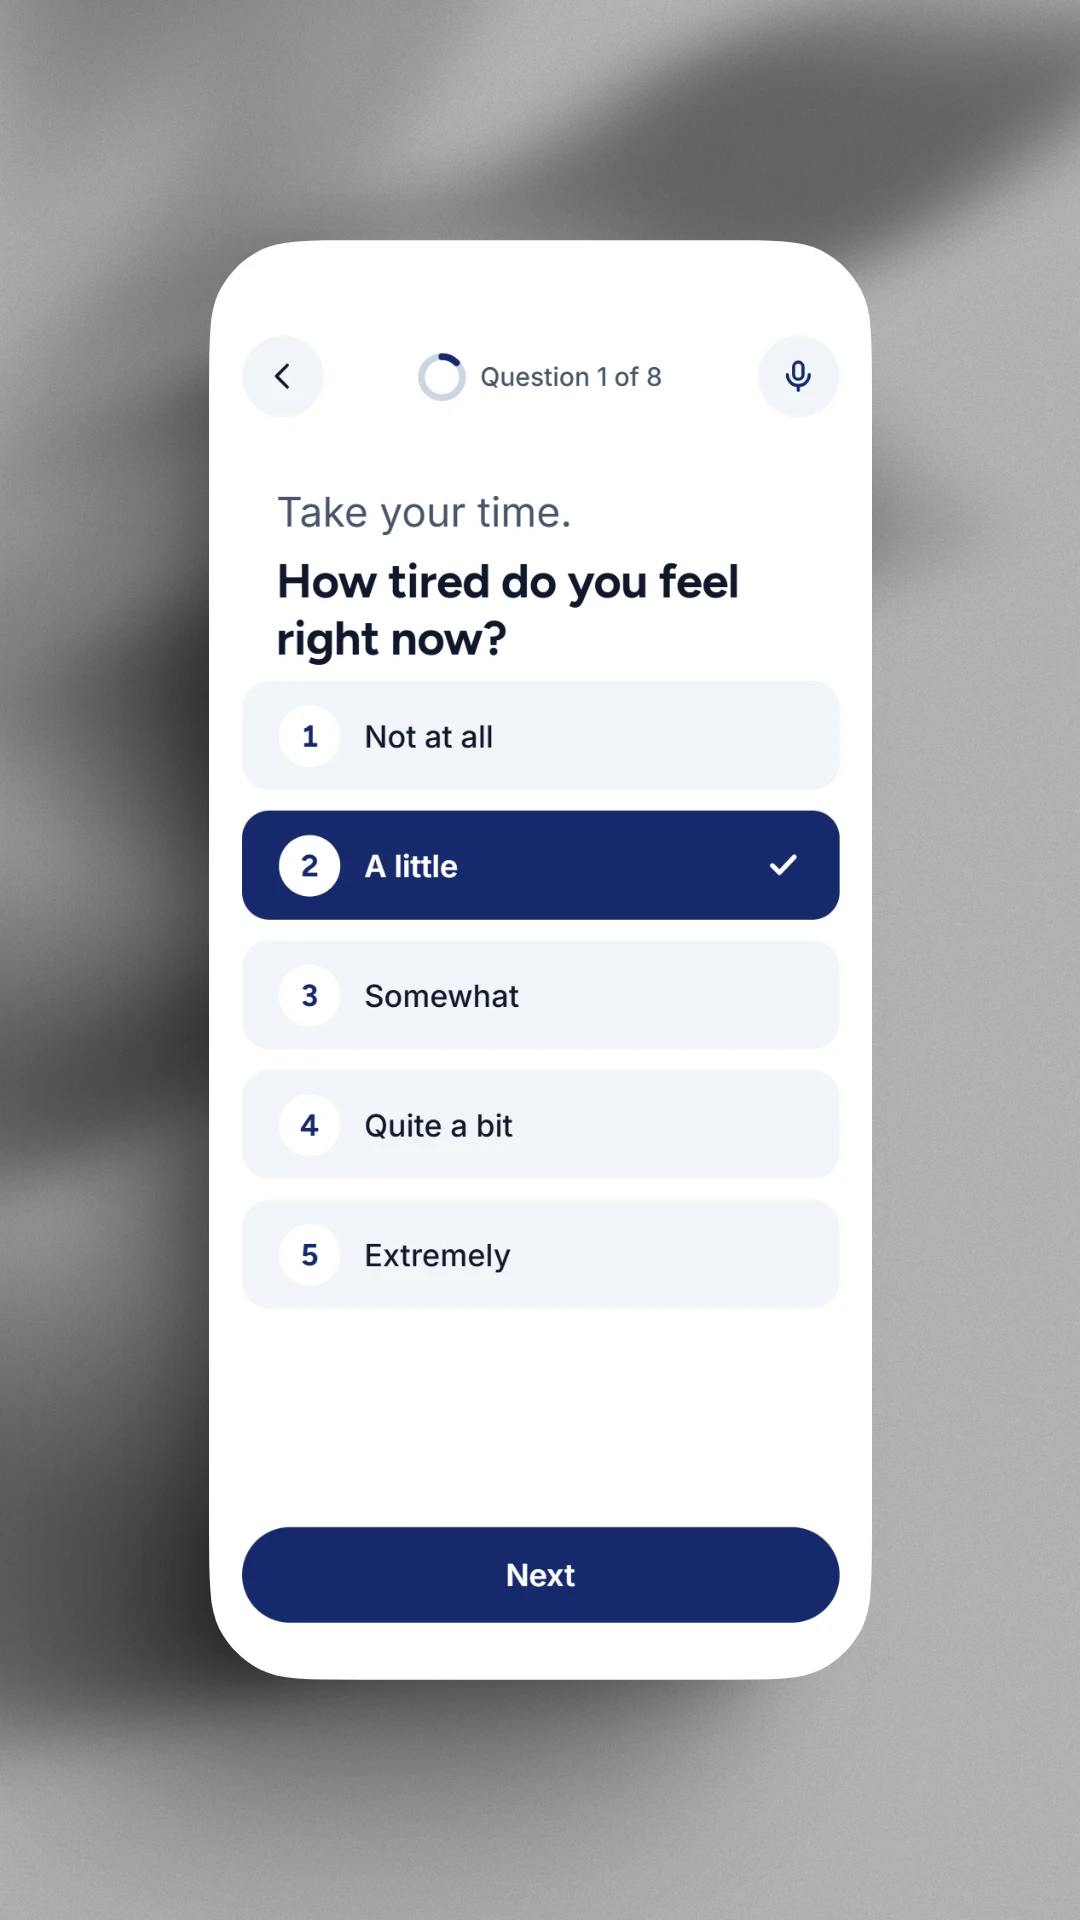
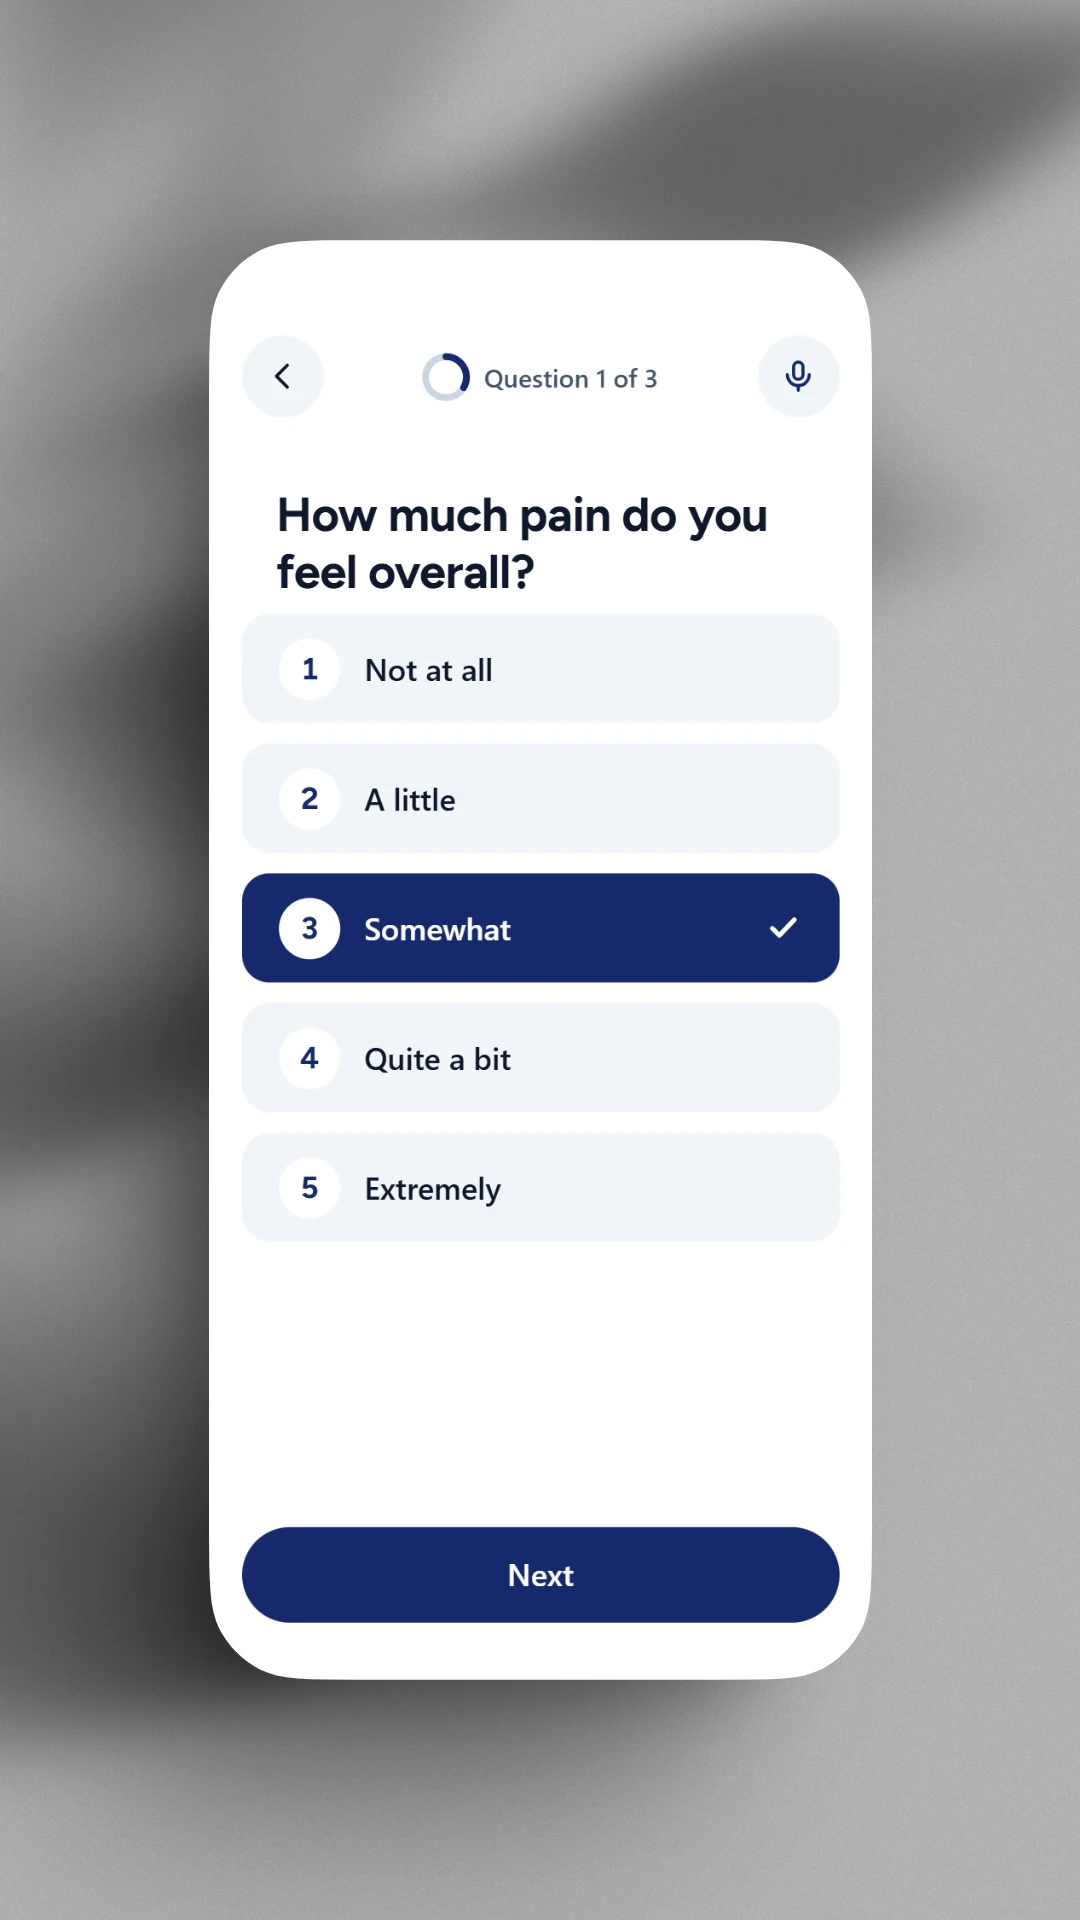
Replace the ePRO single-select image
Claude-Session: https://claude.ai/code/session_0196Ae2T5FvwkwyFddqCoPdG

Changed region(s): [[0.2139, 0.25, 0.7944, 0.6562], [0.3667, 0.1875, 0.6111, 0.2188], [0.4583, 0.8125, 0.5194, 0.8438]]

diff --git a/lib/projects.ts b/lib/projects.ts
@@ -281,7 +281,7 @@ export const projects: Project[] = [
           layout: 'side',
           media: {
             src: '/work/epro/single-select-standard.webp',
-            alt: 'A single-select question in the standard view: “Take your time. How tired do you feel right now?” above five numbered options, with “2, A little” selected in navy and a Next button at the bottom.',
+            alt: 'A single-select question in the standard view: “How much pain do you feel overall?” above five numbered options, with “3, Somewhat” selected in navy and a Next button at the bottom.',
             eyebrow: 'Visual 2: Single select, standard view',
             caption: 'One question, one answer, one way forward. The old version offered three ways to get lost.',
             variant: 'phone',
